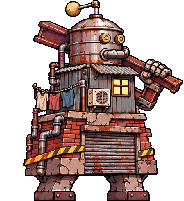
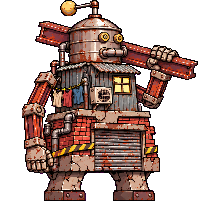
v0.50.1 鐵皮增建處長站姿補回少掉的那隻手

diff --git a/js/game.js b/js/game.js
@@ -14,7 +14,7 @@ const H3_T = [0, .125, .25, .375, .5, .625, .75, .75, .75, .75, .875, 1.0, 1.125
 const SANS = '"Noto Sans TC", sans-serif', SERIF = '"Songti TC", "Noto Serif TC", "PMingLiU", serif';
 const gl = document.getElementById('gl'), hudCv = document.getElementById('hud'), stage = document.getElementById('stage');
 const Q = new URLSearchParams(location.search);
-const VERSION = 'v0.50.0';      // 改版時一起改 tools/deploy.sh 會顯示的版本
+const VERSION = 'v0.50.1';      // 改版時一起改 tools/deploy.sh 會顯示的版本
 
 // ---------- 載入 ----------
 let loadMsg = '載入中', booted = false;
@@ -1407,7 +1407,7 @@ function drawReport() { const k = report; if (!k || now < k.t0) return; zones = 
 // 封面上另外開的兩張紙：玩法說明、更新紀錄（新版本往最上面加一筆，留最近八筆）
 let titleInfo = null, bootClosed = false;
 const HELP = ['一個人出發（第一場有人陪），照行程表一站一站走到最後；路上招募同事，最多帶六人，四人站前排、一人在後排支援', '打贏戰鬥可以三選一強化，還會拿到報帳額度；岔路自己選：休息或特訓、福利、救人、找新同事、採買', '攻擊有六種屬性。敵人頭上兩格是弱點，打中才揭曉：傷害多三成、氣勢多加', '普通攻擊會回 SP，每個人還有自己的附帶效果；招式花 SP；特定夥伴同場可以放合體技', '行動會累積全隊共用的「氣勢」，夠了就能放奧義', '把頭目的「底氣」打到歸零，他會理虧；頭目蓄力時用對屬性拆他頭上的鎖，大招會變弱', '敵人的弱點和下一步，要有小燕或學姊在場才看得到', '連攜：冰打灼燒、火打中毒、打屬性打暈眩、光打攻擊下降、暗打標記、斬打護盾，各有額外效果', '點開行程表左邊的隊伍：調順序、看每個人的素質、招式與被動；戰鬥中也能開，也能把候補換上場', '名詞：「底氣」是頭目頭上的紅格，打到歸零他就「理虧」；「議程」是左上角的行動順序；同標籤的小物湊三個是「套裝」；「福委會」那一站可以白拿一個強化', '候補每回合回三分之一 HP 和 SP；前排有人倒下，候補會自動補上', '戰鬥畫面上的小圖示是什麼意思，按右上角的「圖示說明」看對照', '進度會自動存到這台裝置（戰鬥打到一半也會存），下次打開可以「繼續上班」；有三個存檔位'];
-const CHANGES = [['v0.50.0', '地獄分公司的三位頭目重做：門禁人資長的兩隻警衛各鎖住她一個弱點，打倒警衛才解開；永存檔案室主任蓄力時存檔、放大招時讀檔回血，之前把他打到理虧檔就壞了；永續加班總監每回合加班一小時，攻擊越來越重，理虧才歸零', '地獄分公司的頭目戰多帶一隻輔助小兵「續命行政員」；三位都有八格揮擊動畫'], ['v0.49.0', '台灣篇的三位頭目與菁英重做：剪黏課長身上三片護甲，打中弱點才敲得掉；不夜城營運總監頭上有大招倒數，我方每用一次招式就少一；鐵皮增建處長的血分三層，水塔會回血、鐵皮普攻減半', '台灣篇的頭目戰多帶一隻輔助小兵「巡攤後勤仔」', '新頭目都有完整的八格揮擊動畫；奧客總經理維持原本的造型'], ['v0.48.0', '一般行程的頭目與菁英整個重做（總經理只換打法），每位一條自己的規則：甩鍋課長的黑鍋可以甩回去、鸚鵡長官會學你的屬性、猴子長官每回合換弱點、考績魔導士扣光氣勢、豬腦長官搶功、奧客總經理貼客訴單', '這六位不再有「小兵在場就無敵」；改成底氣要打中弱點才削得動', '頭目與菁英戰多帶一隻輔助小兵「茶水間補給員」：輪流補血、幫頭目打氣'], ['v0.47.1', '修正：省電畫質下戰鬥畫面會停住不動（隊伍換了，畫面上還是舊的人）', '畫質不再自動切成省電；以前被切過去的會改回一般。手機發燙或會卡，再到設定裡自己改', '站在後排的人也能一起放合體技、也會出手（以前鼠仙女站後排時，「午夜前全部重建」放不了）', '一般行程和鏡像內戰有自己的戰鬥背景了：加班辦公區、主管樓層；鏡廊、上下顛倒的辦公區、鏡像王座廳（一般行程的魔王站仍是王座大廳）', '每張背景配自己的地板，整個場景一起換：木地板、拼花、大理石、廟埕石板、夜市柏油、頂樓水泥、地獄岩板；台灣篇和地獄分公司也一起換了'], ['v0.47.0', '鏡像內戰：對面的鏡像同事能力值跟本人一樣（血量、攻擊力、速度；我方這一趟的強化也算進去）', '鏡像內戰：對面的人數跟我方上場人數一樣（頭目算一個人）；三位頭目仍是頭目的血量'], ['v0.46.0', '合體技有配音了：兩個人一搭一唱，各說一句，輪到誰說台詞就打在誰身上', '我方身上的狀態（中毒、護盾、再生、攻擊提升…）也改成圖示加回合數，畫在每個人頭上；全隊的效果畫在氣勢條下面', '設定 → 玩法說明多一頁「我方狀態」的圖示對照'], ['v0.45.2', '標題畫面也會播地圖配樂（手機要先碰一下螢幕才會出聲）'], ['v0.45.1', '菁英戰和中頭目有自己的配樂了；行程表和標題畫面換成正式的地圖配樂'] ];
+const CHANGES = [['v0.50.1', '鐵皮增建處長的站姿補回少掉的那隻手'], ['v0.50.0', '地獄分公司的三位頭目重做：門禁人資長的兩隻警衛各鎖住她一個弱點，打倒警衛才解開；永存檔案室主任蓄力時存檔、放大招時讀檔回血，之前把他打到理虧檔就壞了；永續加班總監每回合加班一小時，攻擊越來越重，理虧才歸零', '地獄分公司的頭目戰多帶一隻輔助小兵「續命行政員」；三位都有八格揮擊動畫'], ['v0.49.0', '台灣篇的三位頭目與菁英重做：剪黏課長身上三片護甲，打中弱點才敲得掉；不夜城營運總監頭上有大招倒數，我方每用一次招式就少一；鐵皮增建處長的血分三層，水塔會回血、鐵皮普攻減半', '台灣篇的頭目戰多帶一隻輔助小兵「巡攤後勤仔」', '新頭目都有完整的八格揮擊動畫；奧客總經理維持原本的造型'], ['v0.48.0', '一般行程的頭目與菁英整個重做（總經理只換打法），每位一條自己的規則：甩鍋課長的黑鍋可以甩回去、鸚鵡長官會學你的屬性、猴子長官每回合換弱點、考績魔導士扣光氣勢、豬腦長官搶功、奧客總經理貼客訴單', '這六位不再有「小兵在場就無敵」；改成底氣要打中弱點才削得動', '頭目與菁英戰多帶一隻輔助小兵「茶水間補給員」：輪流補血、幫頭目打氣'], ['v0.47.1', '修正：省電畫質下戰鬥畫面會停住不動（隊伍換了，畫面上還是舊的人）', '畫質不再自動切成省電；以前被切過去的會改回一般。手機發燙或會卡，再到設定裡自己改', '站在後排的人也能一起放合體技、也會出手（以前鼠仙女站後排時，「午夜前全部重建」放不了）', '一般行程和鏡像內戰有自己的戰鬥背景了：加班辦公區、主管樓層；鏡廊、上下顛倒的辦公區、鏡像王座廳（一般行程的魔王站仍是王座大廳）', '每張背景配自己的地板，整個場景一起換：木地板、拼花、大理石、廟埕石板、夜市柏油、頂樓水泥、地獄岩板；台灣篇和地獄分公司也一起換了'], ['v0.47.0', '鏡像內戰：對面的鏡像同事能力值跟本人一樣（血量、攻擊力、速度；我方這一趟的強化也算進去）', '鏡像內戰：對面的人數跟我方上場人數一樣（頭目算一個人）；三位頭目仍是頭目的血量'], ['v0.46.0', '合體技有配音了：兩個人一搭一唱，各說一句，輪到誰說台詞就打在誰身上', '我方身上的狀態（中毒、護盾、再生、攻擊提升…）也改成圖示加回合數，畫在每個人頭上；全隊的效果畫在氣勢條下面', '設定 → 玩法說明多一頁「我方狀態」的圖示對照'], ['v0.45.2', '標題畫面也會播地圖配樂（手機要先碰一下螢幕才會出聲）'] ];
 function drawOverlay() {
   if (phase === 'title' || phase === 'load') { zones = []; if (!bootClosed) { bootClosed = true; window.__bootDone && window.__bootDone(); }      // 標題畫面畫得出來就收掉開機畫面（聲音與其餘立繪還在背景載，按鈕的位置會寫進度）
     // 封面：整張主視覺（art/map/cover.jpg），上面只放標題與按鈕；玩法說明、更新紀錄另外開
